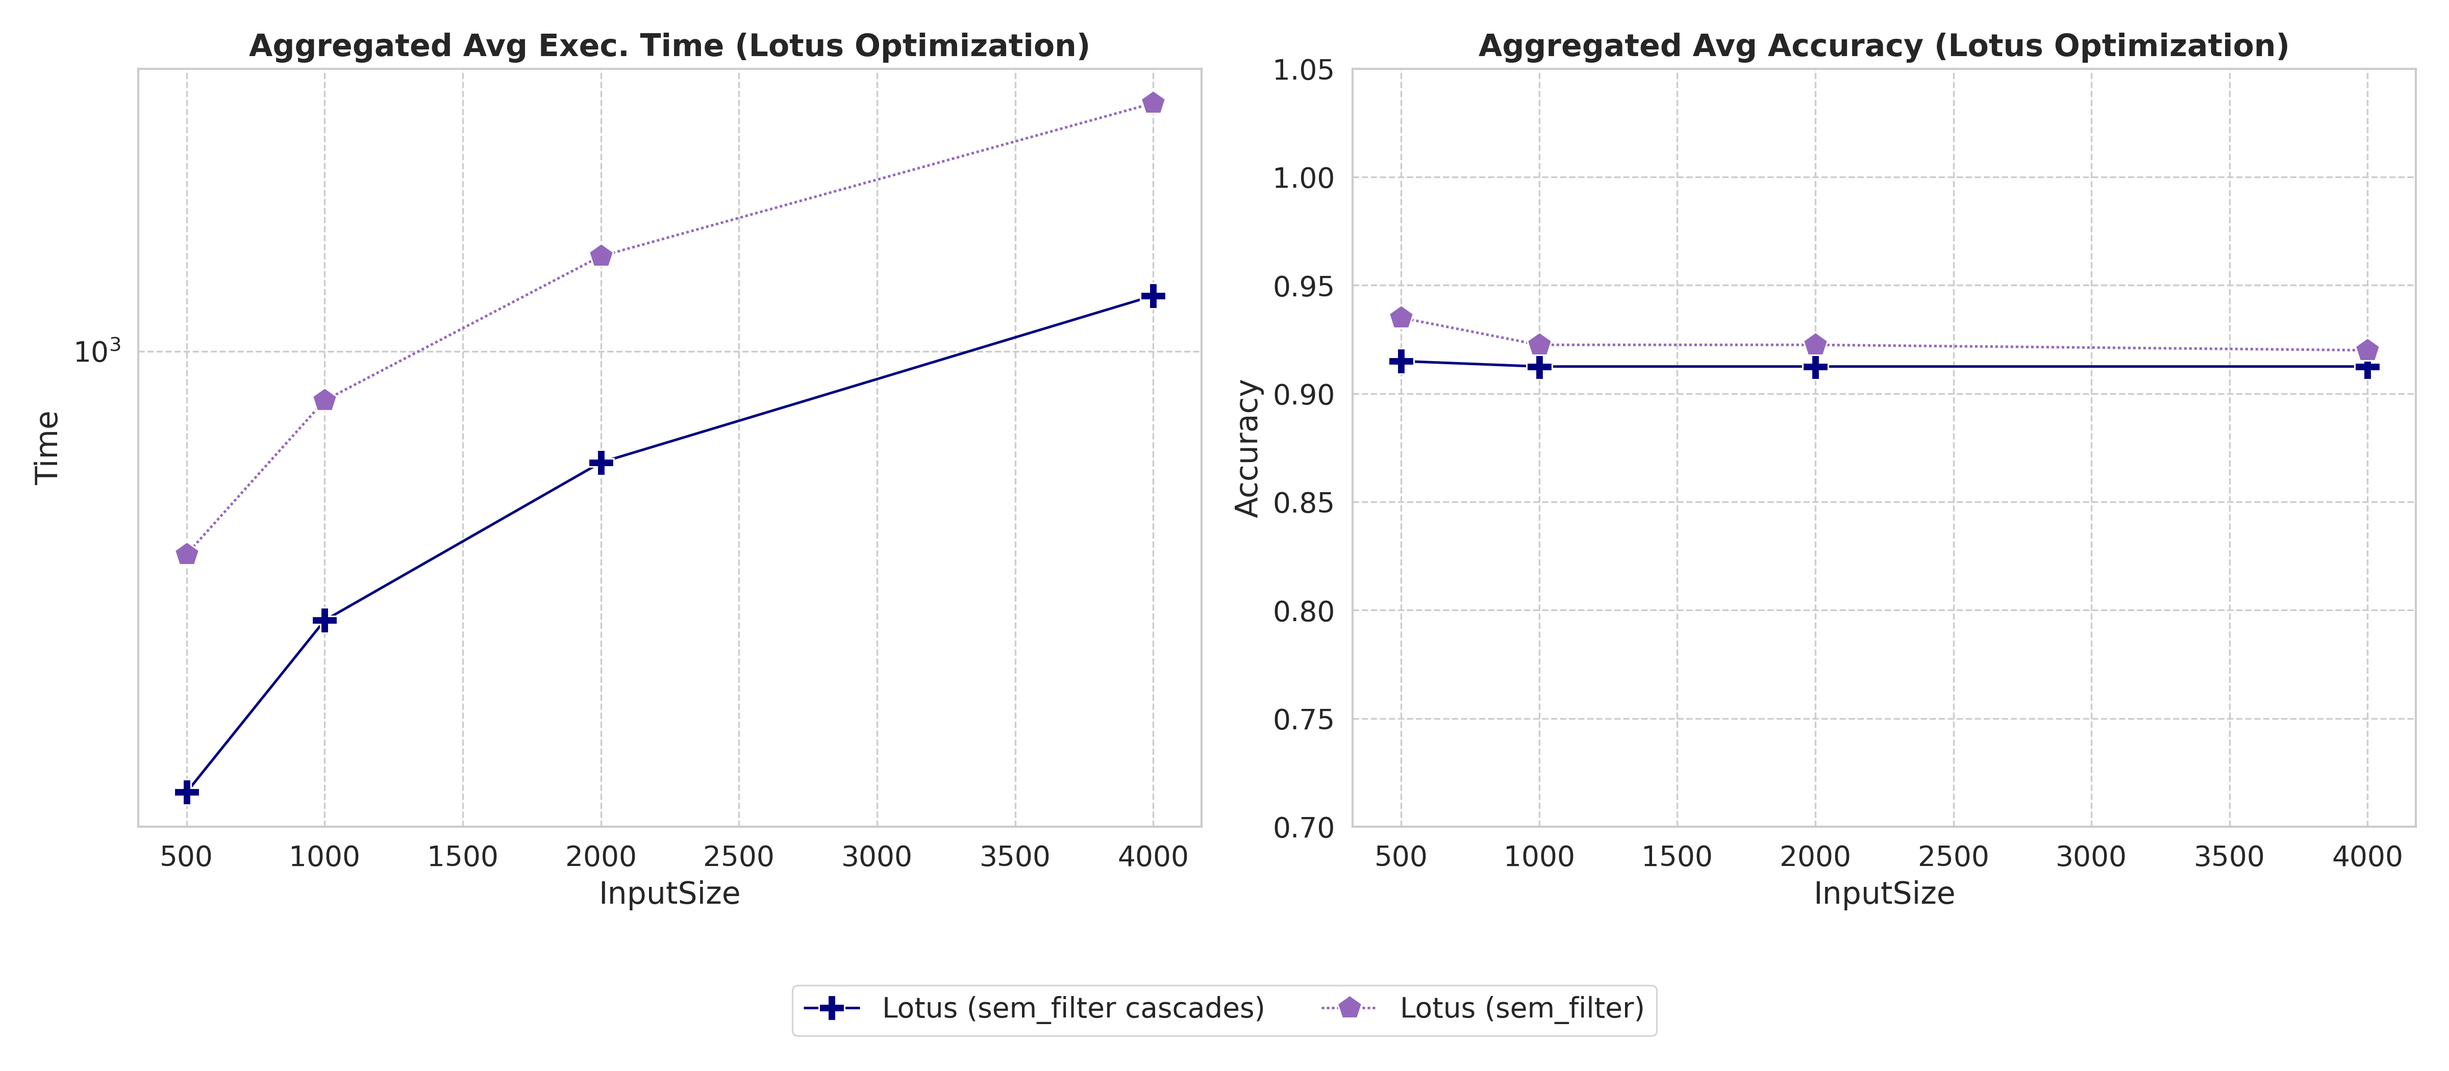
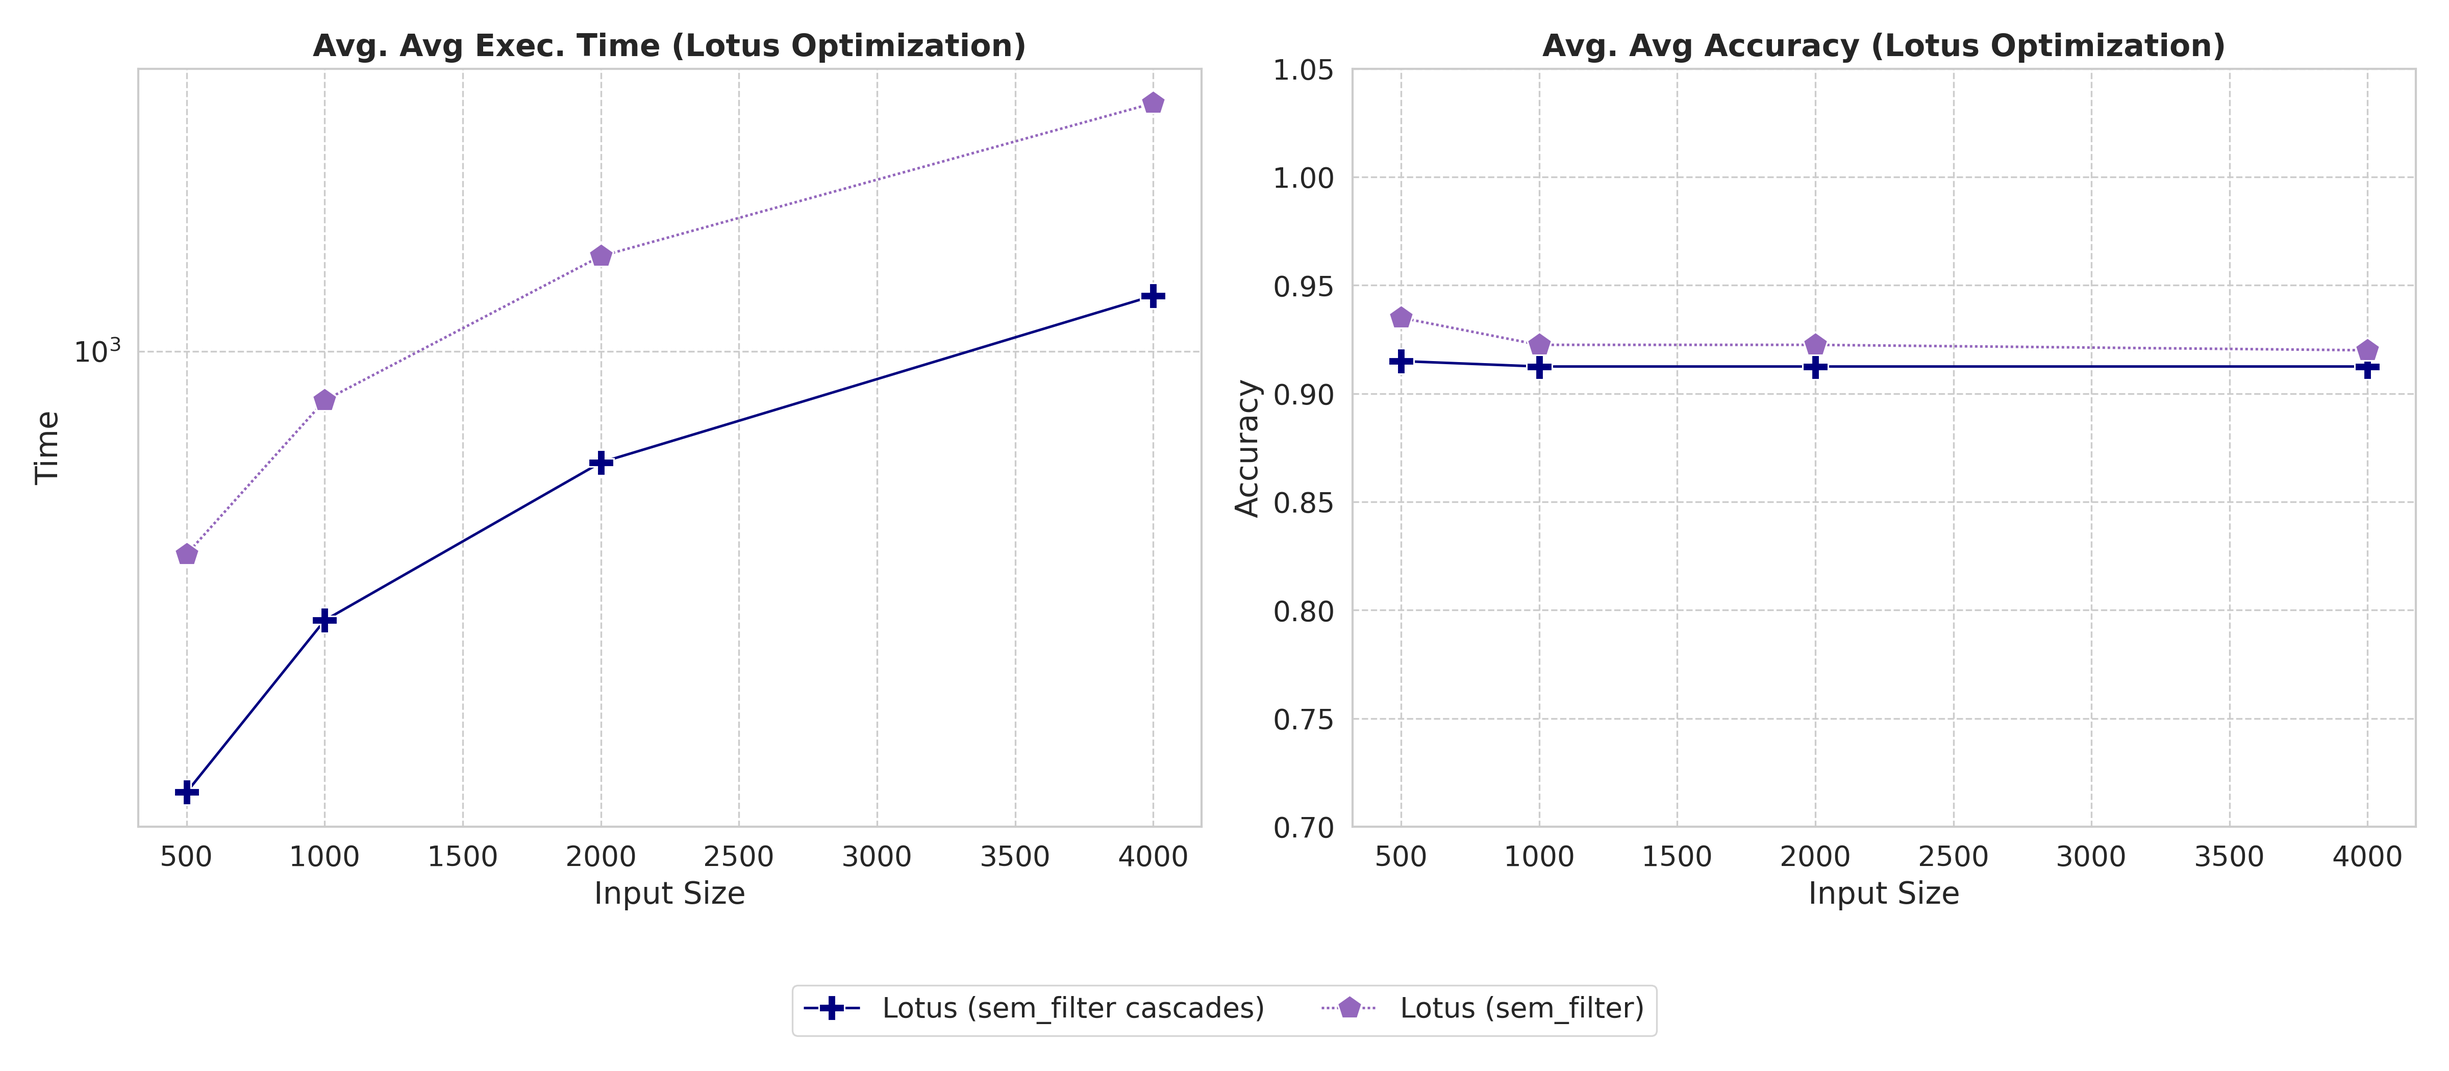
plot refinements

diff --git a/plots.py b/plots.py
@@ -152,8 +152,8 @@ data_16_18 = [
 # ==========================================
 
 def plot_case_1_6():
-    print("Generating Case 1-6...")
-    df = pd.DataFrame(data_1_6, columns=["Query", "System", "Operator", "InputSize", "Time", "Accuracy"])
+    print("Generating Case 1-6 (1st & 2nd Derivation Cases)...")
+    df = pd.DataFrame(data_1_6, columns=["Query", "System", "Operator", "Input Size", "Time", "Accuracy"])
     df["Label"] = df["System"] + " (" + df["Operator"] + ")"
     palette, markers, dashes = get_style_params(df["Label"].unique())
     
@@ -162,9 +162,9 @@ def plot_case_1_6():
     for idx, q in enumerate(["Q1", "Q2", "Q3", "Q4", "Q5", "Q6"]):
         col, row = idx % 3, (0 if idx < 3 else 2)
         q_df = df[df["Query"] == q]
-        sns.lineplot(data=q_df, x="InputSize", y="Time", hue="Label", style="Label", palette=palette, markers=markers, dashes=dashes, markersize=8, ax=axes[row, col], legend=False)
-        axes[row, col].set_title(f"Query {q}", fontweight='bold')
-        sns.lineplot(data=q_df, x="InputSize", y="Accuracy", hue="Label", style="Label", palette=palette, markers=markers, dashes=dashes, markersize=8, ax=axes[row+1, col], legend=(idx==0))
+        sns.lineplot(data=q_df, x="Input Size", y="Time", hue="Label", style="Label", palette=palette, markers=markers, dashes=dashes, markersize=8, ax=axes[row, col], legend=False)
+        axes[row, col].set_title(f"{q}", fontweight='bold')
+        sns.lineplot(data=q_df, x="Input Size", y="Accuracy", hue="Label", style="Label", palette=palette, markers=markers, dashes=dashes, markersize=8, ax=axes[row+1, col], legend=(idx==0))
         axes[row+1, col].set_ylim(0, 1.05)
 
     handles, labels = axes[1, 0].get_legend_handles_labels()
@@ -174,11 +174,11 @@ def plot_case_1_6():
     plt.savefig('figures/case_1_6_individual.png', dpi=300)
 
     # Aggregate
-    agg = df.groupby(["Label", "InputSize"])[["Time", "Accuracy"]].mean().reset_index()
+    agg = df.groupby(["Label", "Input Size"])[["Time", "Accuracy"]].mean().reset_index()
     fig, (ax1, ax2) = plt.subplots(1, 2, figsize=(16, 7))
     for ax, y_v, tit in zip([ax1, ax2], ["Time", "Accuracy"], ["Exec. Time", "Accuracy"]):
-        sns.lineplot(data=agg, x="InputSize", y=y_v, hue="Label", style="Label", palette=palette, markers=markers, dashes=dashes, markersize=12, ax=ax, legend=True)
-        ax.set_title(f"Aggregated {tit} (Q1-Q6)", fontweight='bold')
+        sns.lineplot(data=agg, x="Input Size", y=y_v, hue="Label", style="Label", palette=palette, markers=markers, dashes=dashes, markersize=12, ax=ax, legend=True)
+        ax.set_title(f"Avg. {tit} (Q1-Q6)", fontweight='bold')
         if y_v == "Accuracy": ax.set_ylim(0, 1.05)
         ax.get_legend().remove()
     
@@ -188,8 +188,8 @@ def plot_case_1_6():
     plt.savefig('figures/case_1_6_aggregate.png', dpi=300)
 
 def plot_case_7_8():
-    print("Generating Case 7-8...")
-    df = pd.DataFrame(data_7_8, columns=["Query", "System", "Operator", "InputSize", "Time", "F1", "Accuracy"])
+    print("Generating Case 7-8 (Third Derivation Case)...")
+    df = pd.DataFrame(data_7_8, columns=["Query", "System", "Operator", "Input Size", "Time", "F1", "Accuracy"])
     df["Label"] = df["System"] + " (" + df["Operator"] + ")"
     palette, markers, dashes = get_style_params(df["Label"].unique())
     
@@ -199,10 +199,10 @@ def plot_case_7_8():
         q_df = df[df["Query"] == q]
         for row, metric in enumerate(["Time", "Accuracy", "F1"]):
             ax = axes[row, i]
-            sns.lineplot(data=q_df, x="InputSize", y=metric, hue="Label", style="Label", palette=palette, markers=markers, dashes=dashes, markersize=10, ax=ax, legend=(i==0 and row==0))
+            sns.lineplot(data=q_df, x="Input Size", y=metric, hue="Label", style="Label", palette=palette, markers=markers, dashes=dashes, markersize=10, ax=ax, legend=(i==0 and row==0))
             if row == 0: 
                 ax.set_yscale('log')
-                ax.set_title(f"Query {q} Performance", fontweight='bold', pad=20)
+                ax.set_title(f"{q}", fontweight='bold', pad=20)
             else: ax.set_ylim(0, 1.05)
     
     handles, labels = axes[0, 0].get_legend_handles_labels()
@@ -212,12 +212,12 @@ def plot_case_7_8():
     plt.savefig('figures/case_7_8_individual.png', dpi=300)
 
     # --- Aggregate Plot ---
-    agg = df.groupby(["Label", "InputSize"])[["Time", "Accuracy", "F1"]].mean().reset_index()
+    agg = df.groupby(["Label", "Input Size"])[["Time", "Accuracy", "F1"]].mean().reset_index()
     fig, axes = plt.subplots(1, 3, figsize=(20, 7))
     metrics, titles = ["Time", "Accuracy", "F1"], ["Avg Exec. Time", "Avg Accuracy", "Avg F1 Score"]
 
     for i, (metric, title) in enumerate(zip(metrics, titles)):
-        sns.lineplot(data=agg, x="InputSize", y=metric, hue="Label", style="Label", palette=palette, markers=markers, dashes=dashes, markersize=12, ax=axes[i], legend=True)
+        sns.lineplot(data=agg, x="Input Size", y=metric, hue="Label", style="Label", palette=palette, markers=markers, dashes=dashes, markersize=12, ax=axes[i], legend=True)
         axes[i].set_title(title, fontweight='bold')
         if metric == "Time": axes[i].set_yscale('log')
         else: axes[i].set_ylim(0, 1.05)
@@ -230,7 +230,7 @@ def plot_case_7_8():
 
 def plot_case_9_12():
     print("Generating Case 9-12 (Filter)...")
-    df = pd.DataFrame(data_9_12, columns=["Query", "System", "Operator", "InputSize", "Time", "Accuracy"])
+    df = pd.DataFrame(data_9_12, columns=["Query", "System", "Operator", "Input Size", "Time", "Accuracy"])
     df["Label"] = df["System"] + " (" + df["Operator"] + ")"
     palette, markers, dashes = get_style_params(df["Label"].unique())
     
@@ -238,10 +238,10 @@ def plot_case_9_12():
     fig, axes = plt.subplots(2, 4, figsize=(20, 11), sharex=True)
     for i, q in enumerate(["Q9", "Q10", "Q11", "Q12"]):
         q_df = df[df["Query"] == q]
-        sns.lineplot(data=q_df, x="InputSize", y="Time", hue="Label", style="Label", palette=palette, dashes=dashes, markers=markers, markersize=10, ax=axes[0, i], legend=(i==0))
+        sns.lineplot(data=q_df, x="Input Size", y="Time", hue="Label", style="Label", palette=palette, dashes=dashes, markers=markers, markersize=10, ax=axes[0, i], legend=(i==0))
         axes[0, i].set_yscale('log')
-        axes[0, i].set_title(f"Query {q}", fontweight='bold', pad=20)
-        sns.lineplot(data=q_df, x="InputSize", y="Accuracy", hue="Label", style="Label", palette=palette, dashes=dashes, markers=markers, markersize=10, ax=axes[1, i], legend=False)
+        axes[0, i].set_title(f"{q}", fontweight='bold', pad=20)
+        sns.lineplot(data=q_df, x="Input Size", y="Accuracy", hue="Label", style="Label", palette=palette, dashes=dashes, markers=markers, markersize=10, ax=axes[1, i], legend=False)
         axes[1, i].set_ylim(0.7, 1.05)
 
     handles, labels = axes[0, 0].get_legend_handles_labels()
@@ -251,11 +251,11 @@ def plot_case_9_12():
     plt.savefig('figures/case_9_12_individual.png', dpi=300)
 
     # --- Aggregate Plot ---
-    agg = df.groupby(["Label", "InputSize"])[["Time", "Accuracy"]].mean().reset_index()
+    agg = df.groupby(["Label", "Input Size"])[["Time", "Accuracy"]].mean().reset_index()
     fig, (ax1, ax2) = plt.subplots(1, 2, figsize=(16, 7))
     for ax, y_v, tit in zip([ax1, ax2], ["Time", "Accuracy"], ["Avg Exec. Time", "Avg Accuracy"]):
-        sns.lineplot(data=agg, x="InputSize", y=y_v, hue="Label", style="Label", palette=palette, markers=markers, dashes=dashes, markersize=12, ax=ax, legend=True)
-        ax.set_title(f"Aggregated {tit} (Q9-Q12 Filter)", fontweight='bold')
+        sns.lineplot(data=agg, x="Input Size", y=y_v, hue="Label", style="Label", palette=palette, markers=markers, dashes=dashes, markersize=12, ax=ax, legend=True)
+        ax.set_title(f"Avg. {tit} (Q9-Q12 Filter)", fontweight='bold')
         if y_v == "Time": ax.set_yscale('log')
         else: ax.set_ylim(0.7, 1.05)
         ax.get_legend().remove()
@@ -267,7 +267,7 @@ def plot_case_9_12():
 
 def plot_optimized_9_12():
     print("Generating Optimized Lotus Q9-12...")
-    df = pd.DataFrame(data_optimized, columns=["Query", "System", "Operator", "InputSize", "Time", "Accuracy"])
+    df = pd.DataFrame(data_optimized, columns=["Query", "System", "Operator", "Input Size", "Time", "Accuracy"])
     df["Label"] = df["System"] + " (" + df["Operator"] + ")"
     palette, markers, dashes = get_style_params(df["Label"].unique())
     
@@ -275,10 +275,10 @@ def plot_optimized_9_12():
     fig, axes = plt.subplots(2, 4, figsize=(20, 11), sharex=True)
     for i, q in enumerate(["Q9", "Q10", "Q11", "Q12"]):
         q_df = df[df["Query"] == q]
-        sns.lineplot(data=q_df, x="InputSize", y="Time", hue="Label", style="Label", palette=palette, dashes=dashes, markers=markers, markersize=10, ax=axes[0, i], legend=(i==0))
+        sns.lineplot(data=q_df, x="Input Size", y="Time", hue="Label", style="Label", palette=palette, dashes=dashes, markers=markers, markersize=10, ax=axes[0, i], legend=(i==0))
         axes[0, i].set_yscale('log')
-        axes[0, i].set_title(f"Query {q}", fontweight='bold', pad=20)
-        sns.lineplot(data=q_df, x="InputSize", y="Accuracy", hue="Label", style="Label", palette=palette, dashes=dashes, markers=markers, markersize=10, ax=axes[1, i], legend=False)
+        axes[0, i].set_title(f"{q}", fontweight='bold', pad=20)
+        sns.lineplot(data=q_df, x="Input Size", y="Accuracy", hue="Label", style="Label", palette=palette, dashes=dashes, markers=markers, markersize=10, ax=axes[1, i], legend=False)
         axes[1, i].set_ylim(0.7, 1.05)
 
     handles, labels = axes[0, 0].get_legend_handles_labels()
@@ -288,11 +288,11 @@ def plot_optimized_9_12():
     plt.savefig('figures/case_9_12_optimized_individual.png', dpi=300)
 
     # --- Aggregate Plot ---
-    agg = df.groupby(["Label", "InputSize"])[["Time", "Accuracy"]].mean().reset_index()
+    agg = df.groupby(["Label", "Input Size"])[["Time", "Accuracy"]].mean().reset_index()
     fig, (ax1, ax2) = plt.subplots(1, 2, figsize=(16, 7))
     for ax, y_v, tit in zip([ax1, ax2], ["Time", "Accuracy"], ["Avg Exec. Time", "Avg Accuracy"]):
-        sns.lineplot(data=agg, x="InputSize", y=y_v, hue="Label", style="Label", palette=palette, markers=markers, dashes=dashes, markersize=12, ax=ax, legend=True)
-        ax.set_title(f"Aggregated {tit} (Lotus Optimization)", fontweight='bold')
+        sns.lineplot(data=agg, x="Input Size", y=y_v, hue="Label", style="Label", palette=palette, markers=markers, dashes=dashes, markersize=12, ax=ax, legend=True)
+        ax.set_title(f"Avg. {tit} (Lotus Optimization)", fontweight='bold')
         if y_v == "Time": ax.set_yscale('log')
         else: ax.set_ylim(0.7, 1.05)
         ax.get_legend().remove()
@@ -304,7 +304,7 @@ def plot_optimized_9_12():
 
 def plot_case_13_15():
     print("Generating Case 13-15 (Join)...")
-    df = pd.DataFrame(data_13_15, columns=["Query", "System", "Operator", "InputSize", "Time", "Accuracy"])
+    df = pd.DataFrame(data_13_15, columns=["Query", "System", "Operator", "Input Size", "Time", "Accuracy"])
     df["Label"] = df["System"] + " (" + df["Operator"] + ")"
     palette, markers, dashes = get_style_params(df["Label"].unique())
     
@@ -312,10 +312,10 @@ def plot_case_13_15():
     fig, axes = plt.subplots(2, 3, figsize=(18, 11), sharex=True)
     for i, q in enumerate(["Q13", "Q14", "Q15"]):
         q_df = df[df["Query"] == q]
-        sns.lineplot(data=q_df, x="InputSize", y="Time", hue="Label", style="Label", palette=palette, dashes=dashes, markers=markers, markersize=10, ax=axes[0, i], legend=(i==0))
+        sns.lineplot(data=q_df, x="Input Size", y="Time", hue="Label", style="Label", palette=palette, dashes=dashes, markers=markers, markersize=10, ax=axes[0, i], legend=(i==0))
         axes[0, i].set_yscale('log')
-        axes[0, i].set_title(f"Query {q}", fontweight='bold', pad=20)
-        sns.lineplot(data=q_df, x="InputSize", y="Accuracy", hue="Label", style="Label", palette=palette, dashes=dashes, markers=markers, markersize=10, ax=axes[1, i], legend=False)
+        axes[0, i].set_title(f"{q}", fontweight='bold', pad=20)
+        sns.lineplot(data=q_df, x="Input Size", y="Accuracy", hue="Label", style="Label", palette=palette, dashes=dashes, markers=markers, markersize=10, ax=axes[1, i], legend=False)
         axes[1, i].set_ylim(-0.05, 1.05)
 
     handles, labels = axes[0, 0].get_legend_handles_labels()
@@ -325,11 +325,11 @@ def plot_case_13_15():
     plt.savefig('figures/case_13_15_join_individual.png', dpi=300)
 
     # --- Aggregate Plot ---
-    agg = df.groupby(["Label", "InputSize"])[["Time", "Accuracy"]].mean().reset_index()
+    agg = df.groupby(["Label", "Input Size"])[["Time", "Accuracy"]].mean().reset_index()
     fig, (ax1, ax2) = plt.subplots(1, 2, figsize=(16, 7))
     for ax, y_v, tit in zip([ax1, ax2], ["Time", "Accuracy"], ["Avg Exec. Time", "Avg Accuracy"]):
-        sns.lineplot(data=agg, x="InputSize", y=y_v, hue="Label", style="Label", palette=palette, markers=markers, dashes=dashes, markersize=12, ax=ax, legend=True)
-        ax.set_title(f"Aggregated {tit}", fontweight='bold')
+        sns.lineplot(data=agg, x="Input Size", y=y_v, hue="Label", style="Label", palette=palette, markers=markers, dashes=dashes, markersize=12, ax=ax, legend=True)
+        ax.set_title(f"Avg. {tit}", fontweight='bold')
         if y_v == "Time": ax.set_yscale('log')
         else: ax.set_ylim(-0.05, 1.05)
         ax.get_legend().remove()
@@ -341,7 +341,7 @@ def plot_case_13_15():
 
 def plot_case_16_18():
     print("Generating Case 16-18 (Aggregation)...")
-    df = pd.DataFrame(data_16_18, columns=["Query", "System", "Operator", "InputSize", "Time", "Accuracy"])
+    df = pd.DataFrame(data_16_18, columns=["Query", "System", "Operator", "Input Size", "Time", "Accuracy"])
     df["Label"] = df["System"] + " (" + df["Operator"] + ")"
     
     palette, markers, dashes = get_style_params(df["Label"].unique())
@@ -354,14 +354,14 @@ def plot_case_16_18():
         q_df = df[df["Query"] == q]
         
         # Time Plot (Linear Scale)
-        sns.lineplot(data=q_df, x="InputSize", y="Time", hue="Label", style="Label", 
+        sns.lineplot(data=q_df, x="Input Size", y="Time", hue="Label", style="Label", 
                      palette=palette, dashes=dashes, markers=markers, markersize=10, 
                      ax=axes[0, i], legend=(i==0))
-        axes[0, i].set_title(f"Query {q}", fontweight='bold', pad=20)
+        axes[0, i].set_title(f"{q}", fontweight='bold', pad=20)
         axes[0, i].set_ylabel("Time (s)")
         
         # Accuracy Plot
-        sns.lineplot(data=q_df, x="InputSize", y="Accuracy", hue="Label", style="Label", 
+        sns.lineplot(data=q_df, x="Input Size", y="Accuracy", hue="Label", style="Label", 
                      palette=palette, dashes=dashes, markers=markers, markersize=10, 
                      ax=axes[1, i], legend=False)
         axes[1, i].set_ylim(-0.05, 1.05)
@@ -378,14 +378,14 @@ def plot_case_16_18():
     plt.savefig('figures/case_16_18_agg_individual.png', dpi=300)
 
     # --- Aggregate Plot ---
-    agg = df.groupby(["Label", "InputSize"])[["Time", "Accuracy"]].mean().reset_index()
+    agg = df.groupby(["Label", "Input Size"])[["Time", "Accuracy"]].mean().reset_index()
     fig, (ax1, ax2) = plt.subplots(1, 2, figsize=(16, 7))
     
     for ax, y_v, tit in zip([ax1, ax2], ["Time", "Accuracy"], ["Avg Exec. Time", "Avg Accuracy"]):
-        sns.lineplot(data=agg, x="InputSize", y=y_v, hue="Label", style="Label", 
+        sns.lineplot(data=agg, x="Input Size", y=y_v, hue="Label", style="Label", 
                      palette=palette, markers=markers, dashes=dashes, markersize=12, 
                      ax=ax, legend=True)
-        ax.set_title(f"Aggregated {tit}", fontweight='bold')
+        ax.set_title(f"Avg. {tit}", fontweight='bold')
         ax.set_xlabel("Input Size")
         ax.set_ylabel(y_v if y_v == "Time" else "Accuracy")
         

diff --git a/blendsql/queries/derivation/Q1/q1.py b/blendsql/queries/derivation/Q1/q1.py
@@ -79,29 +79,29 @@ smoothie = bsql.execute(
 
 exec_time = time.time() - start
 
-if args.provider == 'ollama':
-    output_file = f"evaluation/derivation/Q1/results/blendsql_Q1_{args.model.replace(':', '_')}_{args.provider}_{args.size}.csv"
-elif args.provider =='vllm':
-    output_file = f"evaluation/derivation/Q1/results/blendsql_Q1_{args.model.replace('/', '_')}_{args.provider}_{args.size}.csv"
+# if args.provider == 'ollama':
+#     output_file = f"evaluation/derivation/Q1/results/blendsql_Q1_{args.model.replace(':', '_')}_{args.provider}_{args.size}.csv"
+# elif args.provider =='vllm':
+#     output_file = f"evaluation/derivation/Q1/results/blendsql_Q1_{args.model.replace('/', '_')}_{args.provider}_{args.size}.csv"
 
-output_df = smoothie.df.rename(columns={"Game_ID": "Game ID", "player_name": "Player Name"})
-output_df.to_csv(f"evaluation/derivation/Q1/results/blendsql_Q1_{args.model.replace('/', '_').replace(':', '_')}_{args.provider}_{args.size}.csv")
+# output_df = smoothie.df.rename(columns={"Game_ID": "Game ID", "player_name": "Player Name"})
+# output_df.to_csv(f"evaluation/derivation/Q1/results/blendsql_Q1_{args.model.replace('/', '_').replace(':', '_')}_{args.provider}_{args.size}.csv")
 
-total_LLM_calls = args.size
+# total_LLM_calls = args.size
 
-with open('statistics/derivation/Q1.log', 'a') as file:
-    file.write(f"System: BlendSQL\n")
-    file.write(f"Timestamp: {datetime.now().isoformat()}\n")
-    file.write(f"Model: {args.model}\n")
-    file.write(f"Input Size: {args.size}\n")
-    file.write(f"Execution Time: {exec_time:.2f}\n")
-    file.write("Total LLM calls: " + str(total_LLM_calls) + "\n")
+# with open('statistics/derivation/Q1.log', 'a') as file:
+#     file.write(f"System: BlendSQL\n")
+#     file.write(f"Timestamp: {datetime.now().isoformat()}\n")
+#     file.write(f"Model: {args.model}\n")
+#     file.write(f"Input Size: {args.size}\n")
+#     file.write(f"Execution Time: {exec_time:.2f}\n")
+#     file.write("Total LLM calls: " + str(total_LLM_calls) + "\n")
 
 
-if args.wandb:
-    wandb.log({
-        "result_table": wandb.Table(dataframe=smoothie.df),
-        "execution_time": exec_time,
-        "total_LLM_calls": total_LLM_calls,
-    })
-    wandb.finish()
+# if args.wandb:
+#     wandb.log({
+#         "result_table": wandb.Table(dataframe=smoothie.df),
+#         "execution_time": exec_time,
+#         "total_LLM_calls": total_LLM_calls,
+#     })
+#     wandb.finish()
